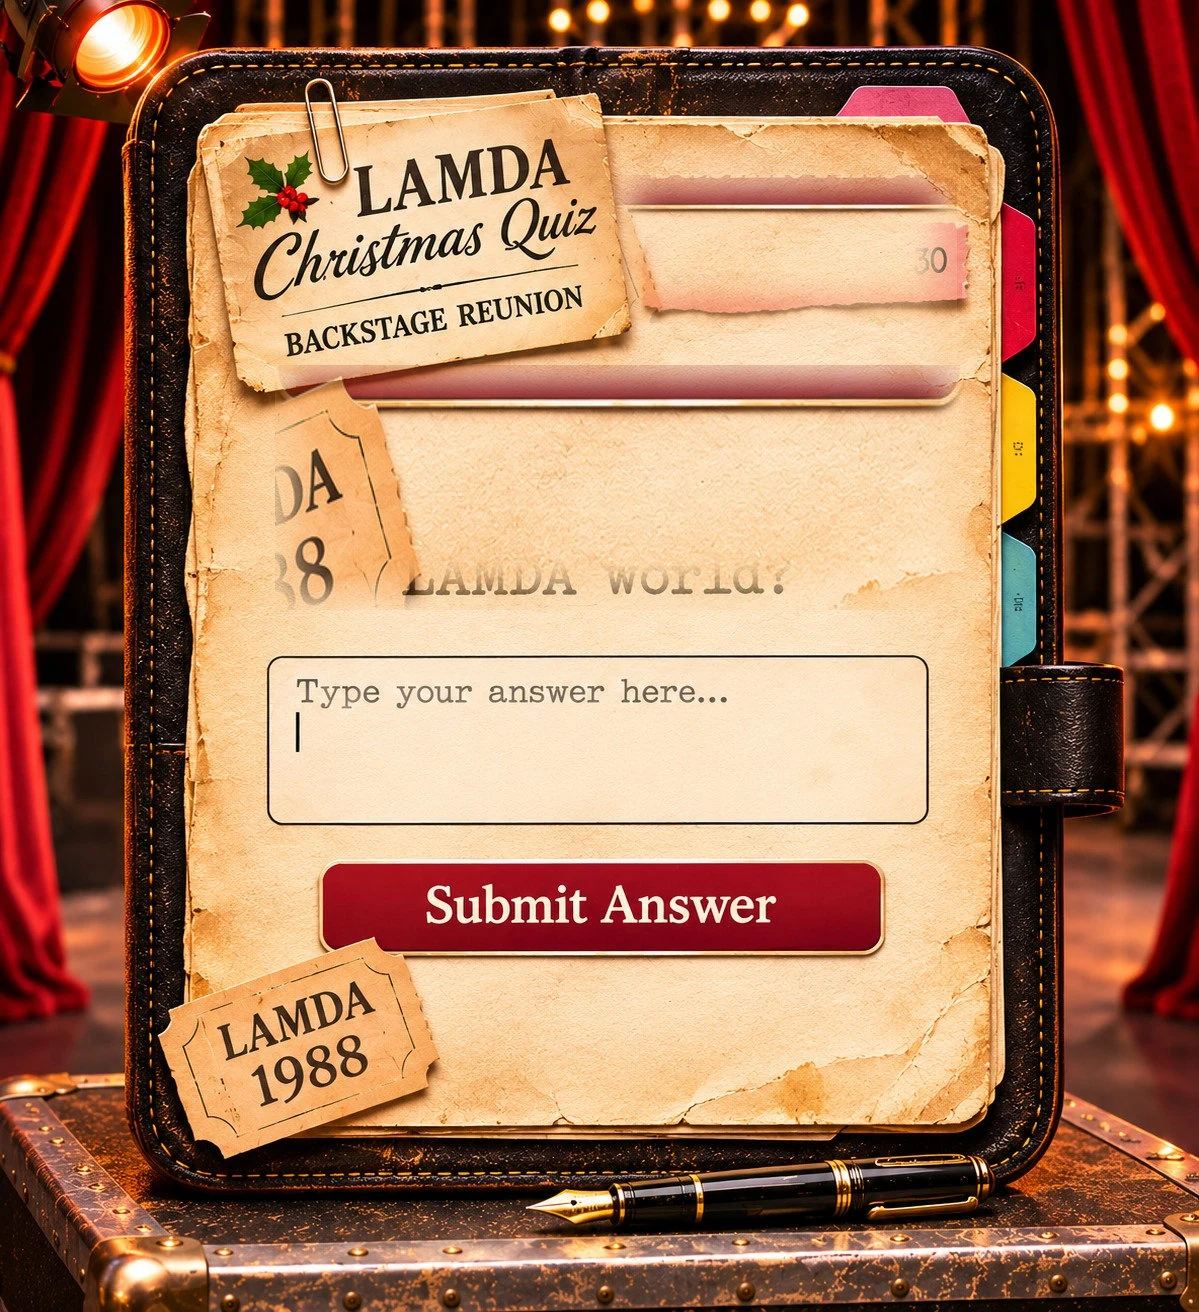
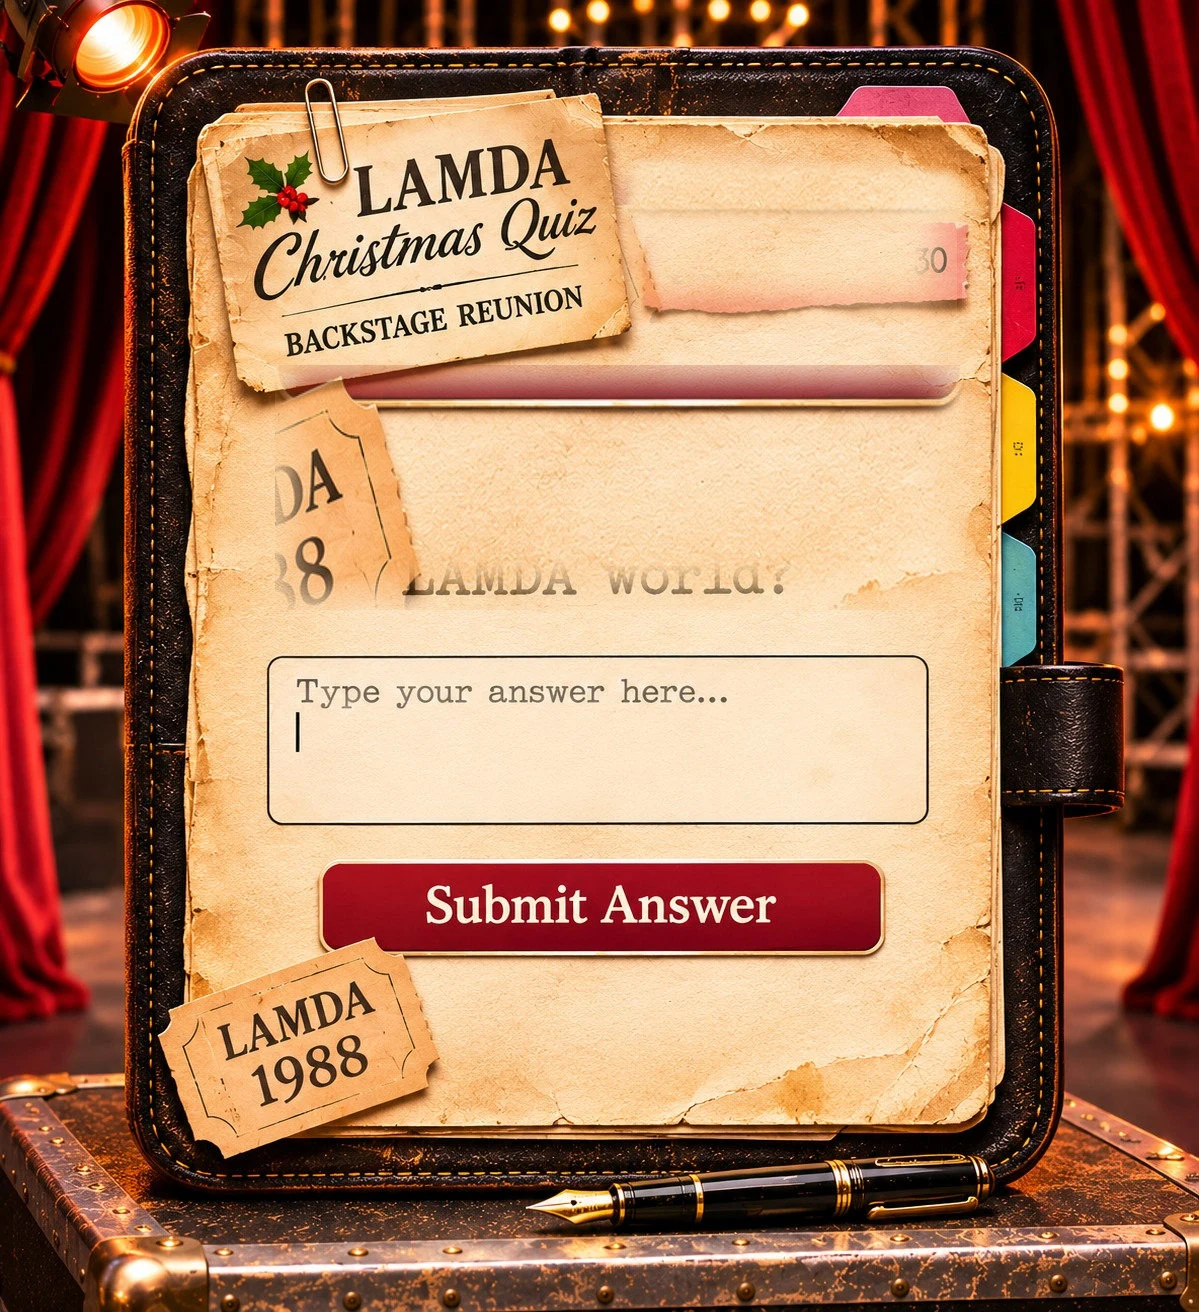
Add files via upload

Changed region(s): [[0.5246, 0.125, 0.8332, 0.1875]]

diff --git a/index.html b/index.html
@@ -194,7 +194,7 @@ button:disabled{opacity:.5;cursor:not-allowed}
  align-items:center!important;justify-content:center!important;gap:0!important;
  padding:2px 5px!important;
  background:#d99186!important;border:0!important;
- border-radius:3px!important;box-shadow:1px 3px 5px #593a305c!important;
+ border-radius:3px!important;box-shadow:none!important;
  color:#21140f!important;transform:rotate(-1deg)!important;
  font:700 clamp(11px,2.05vw,22px)/1.1 'Courier New',monospace!important;
  white-space:nowrap!important;overflow:hidden!important;
